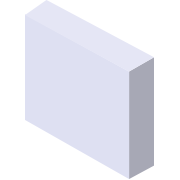
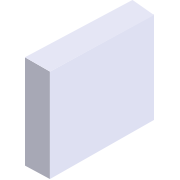
Changement bouton rotate et mise en place bouton view

diff --git a/homright/src/pages/jeu-modelisation/jeu-modelisation.scss b/homright/src/pages/jeu-modelisation/jeu-modelisation.scss
@@ -53,14 +53,6 @@ page-jeu-modelisation {
 		}
 	}
 
-	.buttonSymetrie{
-		width: 40px;
-		position: absolute;
-    	top: -15px;
-    	left: -10px;
-    	z-index: 20;
-	}
-
 	.gestion-range{
 		p{
 	    	margin: 0px;
@@ -492,6 +484,58 @@ input[type="range"]
 		cursor: pointer;
 	}
 
+	.buttonSymetrie{
+	width: 40px;
+    padding: 10px;
+    position: absolute;
+    top: -15px;
+    left: -10px;
+    z-index: 20;
+    background: #7686FF;
+    border-radius: 50%;
+	}
+
+	.buttonVoir{
+	width: 40px;
+    padding: 10px;
+    position: absolute;
+    top: -42px;
+    left: 40px;
+    z-index: 20;
+    background: #7686FF;
+    border-radius: 50%;
+	}
+
+
+	.item-radiateur{
+		.buttonSymetrie{
+			top: -15px;
+    		left: -10px;
+		}
+		.buttonVoir{
+			top: -31px;
+    		left: 35px;
+		}
+	}
+
+	.item-led, .item-halogene{
+		.buttonSymetrie{
+			top: -28px;
+    		left: -10px;
+		}
+		.buttonVoir{
+			top: -35px;
+    		left: 37px;
+		}
+	}
+
+	.item-lampadaire-halo, .item-lampadaire-led{
+		.buttonVoir{		
+			top: -50px;
+    		left: 10px;
+    	}
+	}
+
 	@mixin makeIsometrie60x60($nom) {
 		.item-#{$nom}{
 			background-image: url("../../assets/isometrie/symbole/#{$nom}.png");
@@ -616,6 +660,7 @@ input[type="range"]
 	@include makeIsometrie60x60(prise);
 
 	@include makeIsometrie60x120(lampadaire-halo);
+	@include makeIsometrie60x120(lampadaire-led);
 
 	@include makeIsometrie180x140(lit);
 

diff --git a/homright/src/pages/jeu-modelisation/jeu-modelisation.ts b/homright/src/pages/jeu-modelisation/jeu-modelisation.ts
@@ -156,7 +156,10 @@ longueur =0;
         //$(this).insertBefore("#case-maison");
         var positionP = $(this).find('.buttonSymetrie'); //Definit la variable
         if(positionP.length == 0){
-          $(this).append("<img class='buttonSymetrie cache' src='../../assets/button/rotate.png'/>").promise().done(
+          if( $(this).hasClass( "sans-symetrie" )==true){
+             $(this).append("<img class='buttonVoir cache' src='../../assets/button/see.png'/>");
+          }else{
+          $(this).append("<img class='buttonSymetrie cache' src='../../assets/button/rotate.png'/><img class='buttonVoir cache' src='../../assets/button/see.png'/>").promise().done(
 
             function(){
 
@@ -177,7 +180,7 @@ longueur =0;
                 }
 
               })
-            });
+            });}
         }
         //$(event.target).data('offset-x', "+" + ui.offset.left);
        // $(event.target).data('offset-y', "+" + ui.offset.top);      

diff --git a/homright/src/pages/jeu-modelisation/jeu-modelisation.html b/homright/src/pages/jeu-modelisation/jeu-modelisation.html
@@ -81,9 +81,17 @@
 
 							<ion-item>
 								<div item-end>
-									<div id="lampadaire-halo" class="objets-presentation item-lampadaire-halo" (click)="caseMaisonObjet($event);"></div>
+									<div id="lampadaire-halo" class="objets-presentation item-lampadaire-halo sans-symetrie" (click)="caseMaisonObjet($event);"></div>
 								</div>
 								<h2>Halogène</h2>
+								<p>lampadaire</p>
+							</ion-item>
+
+							<ion-item>
+								<div item-end>
+									<div id="lampadaire-led" class="objets-presentation item-lampadaire-led sans-symetrie" (click)="caseMaisonObjet($event);"></div>
+								</div>
+								<h2>LED</h2>
 								<p>lampadaire</p>
 							</ion-item>
 
